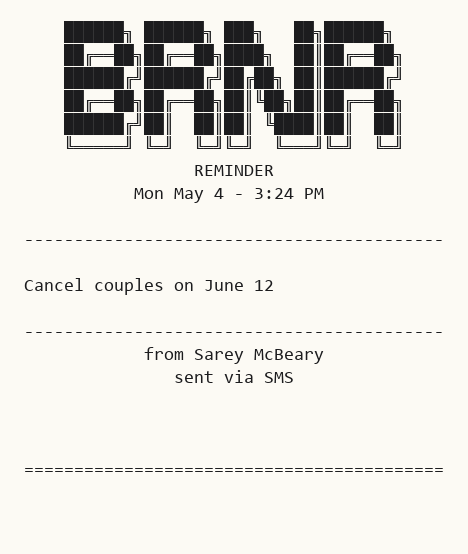
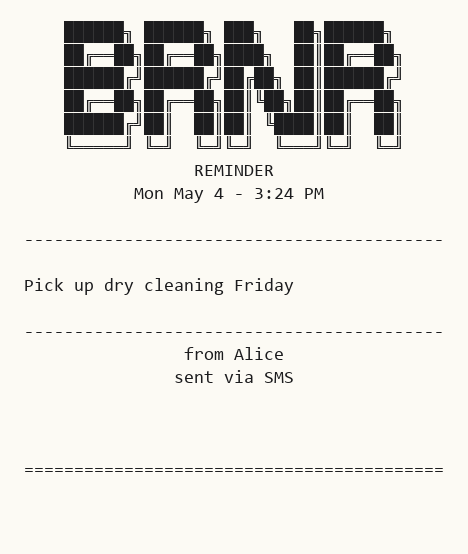
Render real QR codes in URL previews; scrub sample names + text
PrinterSimulator now stores QR symbols as _QREmbed markers in
self.output instead of placeholder strings. render_to_image()
generates a real QR via the qrcode package (graceful fallback
to text placeholder if qrcode isn't installed), centers it on
the receipt, and sizes it relative to the text line height.
render_to_string keeps the textual [QR CODE] placeholder.

Sample jobs in test_receipts.py replaced personally-tinged
content (real-ish name, rude message) with neutral
demonstration data (Alice/Bob, "Pick up dry cleaning Friday",
"Running late, be there in 10").

Changed region(s): [[0.2991, 0.6137, 0.688, 0.6751], [0.0598, 0.491, 0.3889, 0.5523], [0.4188, 0.491, 0.6282, 0.5523]]

diff --git a/printer_simulator.py b/printer_simulator.py
@@ -4,8 +4,16 @@ Simulates ESC/POS output for Epson TM-T88V printer on the dev PC
 """
 
 import sys
-from typing import List, Optional, Tuple
+from typing import List, Optional, Tuple, Union
 from datetime import datetime
+
+
+class _QREmbed:
+    """Marker placed in PrinterSimulator.output for a QR code symbol."""
+    __slots__ = ("data",)
+
+    def __init__(self, data: str):
+        self.data = data
 
 
 class PrinterSimulator:
@@ -198,13 +206,7 @@ class PrinterSimulator:
         self._flush_line()
         data = self._pending_qr_data or ""
         self._pending_qr_data = None
-        label = "[QR CODE]"
-        if data:
-            shown = data if len(data) <= self.width - 2 else data[:self.width - 5] + "..."
-            self.output.append(self._apply_alignment(label))
-            self.output.append(self._apply_alignment(shown))
-        else:
-            self.output.append(self._apply_alignment(label))
+        self.output.append(_QREmbed(data))
 
     def _emit_photo_placeholder(self, width_dots: int, height_dots: int) -> None:
         self._flush_line()
@@ -262,40 +264,101 @@ class PrinterSimulator:
         line_height = ascent + descent + line_spacing
 
         img_width = content_width + 2 * margin
-        img_height = max(1, len(self.output)) * line_height + 2 * margin
+
+        # QR target size: roughly 11 text lines tall, capped at content width.
+        qr_target_px = min(content_width, line_height * 11)
+        qr_cache = {}
+
+        def _make_qr(entry: _QREmbed):
+            if entry in qr_cache:
+                return qr_cache[entry]
+            try:
+                import qrcode
+            except ImportError:
+                qr_cache[entry] = None
+                return None
+            qr = qrcode.QRCode(border=1, box_size=8)
+            qr.add_data(entry.data)
+            qr.make(fit=True)
+            qr_img = qr.make_image(fill_color=ink_color, back_color=paper_color).convert("RGB")
+            if qr_img.width != qr_target_px:
+                qr_img = qr_img.resize((qr_target_px, qr_target_px), Image.NEAREST)
+            qr_cache[entry] = qr_img
+            return qr_img
+
+        # First pass: total height.
+        total = 0
+        for entry in self.output:
+            if isinstance(entry, _QREmbed):
+                qr_img = _make_qr(entry)
+                total += (qr_img.height if qr_img is not None else line_height * 2) + line_spacing
+            else:
+                total += line_height
+        img_height = total + 2 * margin
 
         img = Image.new("RGB", (img_width, img_height), paper_color)
         draw = ImageDraw.Draw(img)
 
         y = margin
-        for line in self.output:
-            if line:
-                draw.text((margin, y), line, font=font, fill=ink_color)
-            y += line_height
+        for entry in self.output:
+            if isinstance(entry, _QREmbed):
+                qr_img = _make_qr(entry)
+                if qr_img is not None:
+                    x = (img_width - qr_img.width) // 2
+                    img.paste(qr_img, (x, y))
+                    y += qr_img.height + line_spacing
+                else:
+                    placeholder = self._center_text("[QR CODE]")
+                    draw.text((margin, y), placeholder, font=font, fill=ink_color)
+                    y += line_height
+                    if entry.data:
+                        draw.text((margin, y), self._center_text(entry.data[:self.width]), font=font, fill=ink_color)
+                        y += line_height
+                    else:
+                        y += line_height
+            elif entry:
+                draw.text((margin, y), entry, font=font, fill=ink_color)
+                y += line_height
+            else:
+                y += line_height
 
         return img
 
+    def _center_text(self, text: str) -> str:
+        pad = max(0, (self.width - len(text)) // 2)
+        return " " * pad + text
+
+    def _stringify_output(self) -> List[str]:
+        """Expand QR embeds into placeholder text lines for plain/string rendering."""
+        lines: List[str] = []
+        for entry in self.output:
+            if isinstance(entry, _QREmbed):
+                lines.append(self._center_text("[QR CODE]"))
+                if entry.data:
+                    shown = entry.data if len(entry.data) <= self.width else entry.data[:self.width - 3] + "..."
+                    lines.append(self._center_text(shown))
+            else:
+                lines.append(entry)
+        return lines
+
     def render_to_string(self) -> str:
         """Return formatted printer output as string"""
-        self._flush_line()  # Flush any remaining content
-        
-        output_text = "\n".join(self.output)
-        
-        # Create a nice display frame
+        self._flush_line()
+        lines = self._stringify_output()
+
         header = "┌" + "─" * (self.width + 2) + "┐"
         footer = "└" + "─" * (self.width + 2) + "┘"
-        
+
         framed_output = header + "\n"
-        for line in self.output:
+        for line in lines:
             framed_output += "│ " + line.ljust(self.width) + " │\n"
         framed_output += footer
-        
         return framed_output
-    
+
     def render_to_plain(self) -> str:
         """Return plain printer output without frame"""
-        self._flush_line()  # Flush any remaining content
-        return "\n".join(self.output)
+        self._flush_line()
+        return "\n".join(self._stringify_output())
 
 
 class ESCPOSParser:

diff --git a/test_receipts.py b/test_receipts.py
@@ -80,8 +80,8 @@ def _iso(dt: datetime) -> str:
 def job_reminder():
     return {
         "intent_type": "reminder",
-        "content": "Cancel couples on June 12",
-        "sender_display": "Sarey McBeary",
+        "content": "Pick up dry cleaning Friday",
+        "sender_display": "Alice",
         "received_at": _iso(datetime(2026, 5, 4, 20, 24)),
     }
 
@@ -90,7 +90,7 @@ def job_list():
     return {
         "intent_type": "list",
         "content": "Milk, Bread, Eggs, Butter, Coffee, Apples, Chicken breast",
-        "sender_display": "Family",
+        "sender_display": "Alice",
         "received_at": _iso(datetime(2026, 5, 13, 14, 0)),
     }
 
@@ -100,7 +100,7 @@ def job_url():
         "intent_type": "url",
         "content": "A Python library for thermal receipt printing and formatting. Great for POS systems and IoT projects.",
         "metadata": {"original_url": "https://github.com/example/repo"},
-        "sender_display": "drew",
+        "sender_display": "Bob",
         "received_at": _iso(datetime(2026, 5, 12, 21, 22)),
     }
 
@@ -111,7 +111,7 @@ def job_question():
         "content": "ANSWER: Alexander Graham Bell, patented in 1876.",
         "original_message": "who invented the telephone?",
         "metadata": {"question_text": "who invented the telephone?"},
-        "sender_display": "drew",
+        "sender_display": "Bob",
         "received_at": _iso(datetime(2026, 5, 12, 21, 21)),
     }
 
@@ -119,8 +119,8 @@ def job_question():
 def job_generic():
     return {
         "intent_type": "generic",
-        "content": "Any updates, bitch?",
-        "sender_display": "drew",
+        "content": "Running late, be there in 10",
+        "sender_display": "Bob",
         "received_at": _iso(datetime(2026, 5, 12, 21, 21)),
     }
 
